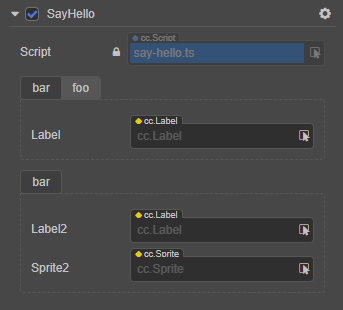
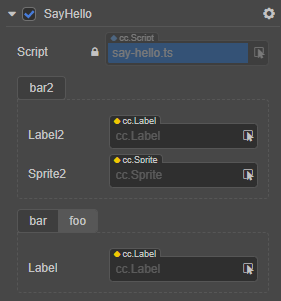
完善物理相关

diff --git a/en/editor/publish/publish-bytedance-mini-game.md b/en/editor/publish/publish-bytedance-mini-game.md
@@ -39,16 +39,13 @@ The game submission, review and release process of a mini-game needs to comply w
 ### Build Options
 
 | Options | Description | Field name (for publishing with command line) |
-| :-- | :-- | :--
+| :-- | :-- | :-- |
 | **Start Scene Asset Bundle** | If set, the start scene and its related dependent resources are built into the built-in Asset Bundle — [start-scene](../../asset/bundle.md#%E5%86%85%E7%BD%AE-asset-bundle) to speed up the resource loading of the start scene. | `startSceneAssetBundle` |
 | **Orientation** | Device orientation, it will be written to `game.json` file. | `orientation` |
 | **AppID** | The appid of the ByteDance Mini Games, it will be written to `project.config.json` file. | `appid` |
 | **Remote server address** | This option is used to fill in the address of the remote server where the resources are stored. Developers need to manually upload the `remote` folder from the release package directory to the filled resource server after build. | `remoteServerAddress` |
 | **Open data context root** | For access to Open Data Context, please refer to the [Open Data Context](./build-open-data-context.md) documentation for details. | `buildOpenDataContextTemplate` |
-| **physX.notPackPhysXLibs**| When selected, the built-in PhysX library files will not be packaged, which will help reduce the package size, but will sacrifice the support of some platforms, such as IOS TikTok apps, and only takes effect when **Project -> Project Settings -> Feature Crop -> Physics System** in the main menu is set to **PhysX**. | `physX.notPackPhysXLibs` |
-| **physX.multiThread**| If checked, multi-threaded mode is enabled, and only takes effect when using **PhysX** physics. | `physX.multiThread` |
-| **physX.subThreadCount** | The number of child threads when multi-threaded mode is enabled, and only takes effect when using **PhysX** physics. | `physX.subThreadCount` |
-| **physX.epsilon** | Tolerance of errors, only takes effect when using **PhysX** physics. If this option is enabled, the precision will be lower when using multi-threaded mode than single-threaded. | `physX.epsilon` |
+| **physX**| This option is used to configure native physics related, please see the **Native Physics** section below for more details. | - |
 
 ## Native Physics
 
@@ -62,12 +59,12 @@ The prerequisite for using native physics is to set **Physics System** to **Phys
 
 ![PhysX options](./publish-bytedance-mini-game/physx-options.png)
 
-For specific option descriptions, please refer to the **Build Options** section above.
-
-> **Note**:
-> 1. Currently, the native physics of the ByteDance platform only supports the Android version of TikTok, and the version must be greater or equal to v16.3.
-> 2. The ByteDance DevTools does not support running native physics, only previewing and debugging on a real devices.
-> 3.  In the v3.3 version, when `notPackPhysXLibs` is not selected, Creator support PhysX to running on the ByteDance full application platform, including ByteDance DevTools.
+| Options | Description | Field name (for publishing with command line) |
+| :-- | :-- | :-- |
+| **physX.notPackPhysXLibs**| If checked, the built-in PhysX library files will not be packaged when building, which helps to reduce the package size, but does not support PhysX running on some application platforms of ByteDance, such as TikTok (iOS version) and DevTools. If unchecked, Creator supports PhysX running on the full application platform of ByteDance. | `physX.notPackPhysXLibs` |
+| **physX.multiThread**| If checked, multi-threaded mode is enabled. | `physX.multiThread` |
+| **physX.subThreadCount** | The number of child threads when multi-threaded mode is enabled. | `physX.subThreadCount` |
+| **physX.epsilon** | Tolerance of errors. If this option is enabled, the precision will be lower when using multi-threaded mode than single-threaded. | `physX.epsilon` |
 
 ## Subpackage Loading
 

diff --git a/zh/editor/publish/publish-bytedance-mini-game.md b/zh/editor/publish/publish-bytedance-mini-game.md
@@ -38,14 +38,11 @@
 | 构建选项 | 说明 | 字段名（用于命令行发布） |
 | :---- | :-- | :-- |
 | 初始场景分包 | 勾选后，首场景及其相关的依赖资源会被构建到发布包目录 `assets` 下的内置 Asset Bundle — [start-scene](../../asset/bundle.md#%E5%86%85%E7%BD%AE-asset-bundle) 中，提高初始场景的资源加载速度。 | `startSceneAssetBundle` |
-| 设备方向 | 可选值包括 **Portrait** 和 **Landscape**。构建时会写入到发布包目录下的 `game.json` 文件中 | `orientation` |
+| 设备方向 | 可选值包括 **Portrait** 和 **Landscape**。构建时会写入到发布包目录下的 `game.json` 文件中。 | `orientation` |
 | AppID | 必填项，字节跳动小游戏的 AppID，构建时会写入到发布包目录下的 `project.config.json` 文件中。 | `appid` |
 | 资源服务器地址 | 用于填写资源存放在远程服务器上的地址。开发者需要在构建后手动将发布包目录下的 `remote` 文件夹上传到所填写的资源服务器地址上。详情请参考 [上传资源到远程服务器](../../asset/cache-manager.md) | `remoteServerAddress` |
-| 生成开放数据域工程模板 | 用于接入开放数据域，详情请参考 [开放数据域](./build-open-data-context.md) | `buildOpenDataContextTemplate` |
-| PhysX - notPackPhysXLibs | 是否不打包内置的 PhysX 库文件，有助于缩小包体，但会牺牲部分平台的支持，仅在使用 PhysX 物理时生效 | `physX.notPackPhysXLibs` |
-| PhysX - multiThread | 是否启用多线程模式，仅在使用 PhysX 物理时生效 | `physX.multiThread` |
-| PhysX - subThreadCount | 启用多线程模式时子线程的个数，仅在使用 PhysX 物理时生效 | `physX.subThreadCount` |
-| PhysX - epsilon | 容忍误差，仅在使用 PhysX 物理时生效。若启用该项，则使用多线程模式时的精度会比单线程的低。 | `physX.epsilon` |
+| 生成开放数据域工程模板 | 用于接入开放数据域，详情请参考 [开放数据域](./build-open-data-context.md)。 | `buildOpenDataContextTemplate` |
+| PhysX | 该项用于配置原生物理相关，具体说明请查看下文 **原生物理** 部分的内容。 | - |
 
 ## 原生物理
 
@@ -57,12 +54,12 @@
 
 ![PhysX options](./publish-bytedance-mini-game/physx-options.png)
 
-具体的选项说明请参考上文 **构建选项介绍** 部分的内容。
-
-> **注意**：
-> 1. 字节跳动平台的原生物理目前仅支持安卓版本的抖音，且版本需大于等于 **v16.3**。
-> 2. 字节跳动开发者工具目前还不支持运行原生物理，只能真机预览和调试。
-> 3. 在 v3.3 版本中，构建字节小游戏时未勾选 `notPackPhysXLibs` 时能够支持 **PhysX** 运行在字节跳动的全应用平台。
+| 构建选项 | 说明 | 字段名（用于命令行发布） |
+| :---- | :-- | :-- |
+| PhysX - notPackPhysXLibs | 若勾选该项，则构建时不会打包内置的 PhysX 库文件，有助于减小包体，但 PhysX 便无法在部分字节跳动的应用平台运行，例如抖音（iOS 版本）及开发者工具。<br>若不勾选该项，则 Creator 支持 PhysX 运行在字节跳动的全应用平台。 | `physX.notPackPhysXLibs` |
+| PhysX - multiThread | 是否启用多线程模式。 | `physX.multiThread` |
+| PhysX - subThreadCount | 启用多线程模式时子线程的个数。 | `physX.subThreadCount` |
+| PhysX - epsilon | 容忍误差。若启用该项，则使用多线程模式时的精度会比单线程的低。 | `physX.epsilon` |
 
 ## 分包加载
 

diff --git a/en/physics/physics-ccd.md b/en/physics/physics-ccd.md
@@ -1,28 +1,33 @@
 # Continuous Collision Detection
 
-在 3.3 版本之后， Cocos Creator 为用户提供了一套基础的连续碰撞检测（简称为 CCD）的功能支持，可以用来支持类如高速运动的子弹，也可以用来改善穿透现象。
+**连续碰撞检测**（简称 **CCD**）是一种用于避免高速运动的物体在离散运动时出现穿透现象而导致碰撞数据不精确的技术，可用于实现类似高速运动的子弹与物体发生碰撞时，不会直接穿透物体。
 
-## CCD 简介
+## 开启 CCD
 
-连续碰撞检测是一种避免在离散时空中出现穿透现象、碰撞数据不精确的技术，而穿透现象通常发生在高速运动物体上，例如子弹类的物体。这是由于计算机模拟都是基于离散化的形式，当速度过快时，就会导致单次积分的能量过大，此时很可能就穿越了本应该碰撞的物体，如下图所示：
+CDD 默认为禁用状态，若要启用，将物体 RigidBody 组件的 `useCCD` 属性设置为 `true` 即可：
 
-![线性穿透现象](img/physics-ccd.jpg)
-
-小球在经过一次步进后，从 T0 时刻运动到了 T1 时刻，显然可以看出错过了本该在 T0.5 时刻碰撞的黑色方块，这是典型的因线性速度过快而导致的线性穿透现象。
+```ts
+const rigidBody = this.getComponent(RigidBody);
+rigidBody.useCCD = true;
+```
 
 ## 解决线性穿透问题
 
-穿透是由于物体离散的运动而导致的现象，三维物体的运动可以拆分为移动和旋转。而线性穿透问题，是指因物体离散的移动而导致的穿透现象。
+穿透是由于物体离散运动而导致的现象，三维物体的运动可以拆分为 **移动** 和 **旋转**。Creator 目前仅支持解决 **线性穿透** 问题，指的便是因物体离散的 **移动** 而导致的穿透现象。
 
-这可以通过开启刚体组件的 `useCCD` 来避免线性穿透现象，此属性用于控制是否使用该刚体的连续碰撞检测功能。
+穿透现象通常发生在高速运动的物体上，例如子弹类的物体。这是由于计算机的模拟都是基于离散化形式，当物体运动速度过快时，就会导致单次积分的能量过大，便可能导致物体穿越了本应该碰撞的另一物体，如下图所示：
+
+![physics-ccd](img/physics-ccd.jpg)
+
+可以看到小球从 T0 时刻运动到 T1 时刻，错过了本该在 T0.5 时刻碰撞的黑色方块，这便是典型的因线性速度过快而导致的线性穿透现象。
 
 ## 支持情况
 
-由于引擎的支持情况不同，以及性能等因素，部分功能支持情况如下：
+由于各物理引擎支持情况的不同，以及出于性能等因素的考虑，Creator 对 CDD 的支持情况如下：
 
-- 仅支持动力学刚体
-- 仅支持凸类形状
-- 不支持旋转穿透
-- 有限的事件支持，考虑到性能原因，CCD 产生的事件只支持 `onCollision` 开头的类型
-- Bullet 物理只支持单个形状，并且 center 需为零向量
-- Cannon 物理只支持球形状
+- 仅支持动力学刚体。
+- 仅支持凸类形状物体。
+- 不支持解决旋转穿透问题。
+- 出于性能因素的考虑，CCD 的事件仅支持以 `onCollision` 开头的类型。
+- 当物理引擎设置为 **Bullet** 时，仅支持单个形状物体（只包含一个碰撞组件），并且碰撞组件中的 `center` 属性需要设置为 0。
+- 当物理引擎设置为 **Cannon** 时，仅支持球碰撞组件。

diff --git a/zh/physics/physics-ccd.md b/zh/physics/physics-ccd.md
@@ -1,28 +1,33 @@
 # 连续碰撞检测
 
-在 3.3 版本之后， Cocos Creator 为用户提供了一套基础的连续碰撞检测（简称为 CCD）的功能支持，可以用来支持类如高速运动的子弹，也可以用来改善穿透现象。
+**连续碰撞检测**（简称 **CCD**）是一种用于避免高速运动的物体在离散运动时出现穿透现象而导致碰撞数据不精确的技术，可用于实现类似高速运动的子弹与物体发生碰撞时，不会直接穿透物体。
 
-## CCD 简介
+## 开启 CCD
 
-连续碰撞检测是一种避免在离散时空中出现穿透现象、碰撞数据不精确的技术，而穿透现象通常发生在高速运动物体上，例如子弹类的物体。这是由于计算机模拟都是基于离散化的形式，当速度过快时，就会导致单次积分的能量过大，此时很可能就穿越了本应该碰撞的物体，如下图所示：
+CDD 默认为禁用状态，若要启用，将物体 RigidBody 组件的 `useCCD` 属性设置为 `true` 即可：
 
-![线性穿透现象](img/physics-ccd.jpg)
-
-小球在经过一次步进后，从 T0 时刻运动到了 T1 时刻，显然可以看出错过了本该在 T0.5 时刻碰撞的黑色方块，这是典型的因线性速度过快而导致的线性穿透现象。
+```ts
+const rigidBody = this.getComponent(RigidBody);
+rigidBody.useCCD = true;
+```
 
 ## 解决线性穿透问题
 
-穿透是由于物体离散的运动而导致的现象，三维物体的运动可以拆分为移动和旋转。而线性穿透问题，是指因物体离散的移动而导致的穿透现象。
+穿透是由于物体离散运动而导致的现象，三维物体的运动可以拆分为 **移动** 和 **旋转**。Creator 目前仅支持解决 **线性穿透** 问题，指的便是因物体离散的 **移动** 而导致的穿透现象。
 
-这可以通过开启刚体组件的 `useCCD` 来避免线性穿透现象，此属性用于控制是否使用该刚体的连续碰撞检测功能。
+穿透现象通常发生在高速运动的物体上，例如子弹类的物体。这是由于计算机的模拟都是基于离散化形式，当物体运动速度过快时，就会导致单次积分的能量过大，便可能导致物体穿越了本应该碰撞的另一物体，如下图所示：
+
+![physics-ccd](img/physics-ccd.jpg)
+
+可以看到小球从 T0 时刻运动到 T1 时刻，错过了本该在 T0.5 时刻碰撞的黑色方块，这便是典型的因线性速度过快而导致的线性穿透现象。
 
 ## 支持情况
 
-由于引擎的支持情况不同，以及性能等因素，部分功能支持情况如下：
+由于各物理引擎支持情况的不同，以及出于性能等因素的考虑，Creator 对 CDD 的支持情况如下：
 
-- 仅支持动力学刚体
-- 仅支持凸类形状
-- 不支持旋转穿透
-- 有限的事件支持，考虑到性能原因，CCD 产生的事件只支持 `onCollision` 开头的类型
-- Bullet 物理只支持单个形状，并且 center 需为零向量
-- Cannon 物理只支持球形状
+- 仅支持动力学刚体。
+- 仅支持凸类形状物体。
+- 不支持解决旋转穿透问题。
+- 出于性能因素的考虑，CCD 的事件仅支持以 `onCollision` 开头的类型。
+- 当物理引擎设置为 **Bullet** 时，仅支持单个形状物体（只包含一个碰撞组件），并且碰撞组件中的 `center` 属性需要设置为 0。
+- 当物理引擎设置为 **Cannon** 时，仅支持球碰撞组件。

diff --git a/en/scripting/ccclass.md b/en/scripting/ccclass.md
@@ -399,7 +399,7 @@ If there are many properties or mixed properties defined in the script, the prop
 | :--- | :--- |
 | `id`           | Group ID, `string` type, is a unique identifier for the property group, and defaults to `default`. |
 | `name`         | The name to classify the properties in the group, `string` type. |
-| `displayOrder` | Sort the groups, `number` type. The smaller the number, the higher the sorting. The default is `Infinity`, which means the group is sorted last. |
+| `displayOrder` | Sort the groups, `number` type. The smaller the number, the higher the sorting. The default is `Infinity`, which means the group is sorted last.<br>If there are multiple groups without `displayOrder` set, they will be sorted in the order declared in the script. |
 | `style`        | Grouping styles, currently only **tab** styles are supported. |
 
 Example script is as follows:
@@ -411,7 +411,7 @@ const { ccclass, property } = _decorator;
 @ccclass('SayHello')
 export class SayHello extends Component {
 
-    // Subgroup 1
+    // Group 1
     // The property category named "bar" within the group, which contains a Label property named "label".
     @property({ group: { name: 'bar' }, type: Label }) 
     label: Label = null!; 
@@ -419,11 +419,11 @@ export class SayHello extends Component {
     @property({ group: { name: 'foo' }, type: Sprite }) 
     sprite: Sprite = null!;
 
-    // Subgroup 2
-    // The property category named "bar" within the group, which contains a Label property named "label2" and a Sprite property named "sprite2".
-    @property({ group: { name: 'bar', id: '2' }, type: Label }) 
+    // Group 2
+    // The property category named "bar2" within the group, which contains a Label property named "label2" and a Sprite property named "sprite2".
+    @property({ group: { name: 'bar2', id: '2', displayOrder: 1 }, type: Label }) 
     label2: Label = null!; 
-    @property({ group: { name: 'bar', id: '2' }, type: Sprite }) 
+    @property({ group: { name: 'bar2', id: '2' }, type: Sprite }) 
     sprite2: Sprite = null!;
 
 }
@@ -432,6 +432,22 @@ export class SayHello extends Component {
 Mounting the script to the node displays the following image in the **Inspector** panel:
 
 ![decorator-group](decorator-group.png)
+
+Because group 1 does not specify `displayOrder` and group 2 specifies `displayOrder` as `1`, group 2 will be ranked ahead of group 1.
+
+Sorting the properties within a group can also be done via `displayOrder`. Taking group 2 as an example, it is currently sorted in the order defined in the script, with label2 in front of sprite2. Let's adjust it to:
+
+```ts
+// Group 2
+@property({ group: { name: 'bar2', id: '2', displayOrder: 1 }, displayOrder: 2, type: Label }) 
+label2: Label = null!; 
+@property({ group: { name: 'bar2', id: '2' }, displayOrder: 1, type: Sprite }) 
+sprite2: Sprite = null!;
+```
+
+Back to the editor, the sprite2 is now in front of label2 in the **Inspector** panel:
+
+![decorator-group](decorator-group2.png)
 
 For additional information about the properties, please refer to the [Properties](./reference/attributes.md) documentation.
 

diff --git a/zh/scripting/decorator.md b/zh/scripting/decorator.md
@@ -221,7 +221,7 @@ id = "";
 | :--- | :--- |
 | `id`           | 分组 ID，`string` 类型，是属性分组组号的唯一标识，默认为 `default`。 |
 | `name`         | 组内属性分类的名称，`string` 类型。 |
-| `displayOrder` | 对分组进行排序，`number` 类型。数字越小，排序越靠前，默认为 `Infinity`，表示排在最后面。 |
+| `displayOrder` | 对分组进行排序，`number` 类型，数字越小，排序越靠前。默认为 `Infinity`，表示排在最后面。<br>若存在多个未设置的分组，则以在脚本中声明的先后顺序进行排序 |
 | `style`        | 分组样式，目前只支持 **tab** 样式。 |
 
 示例脚本如下：
@@ -242,10 +242,10 @@ export class SayHello extends Component {
     sprite: Sprite = null!;
 
     // 分组二
-    // 组内名为 “bar” 的属性分类，其中包含名为 label2 的 Label 属性和名为 sprite2 的 Sprite 属性
-    @property({ group: { name: 'bar', id: '2' }, type: Label }) 
+    // 组内名为 “bar2” 的属性分类，其中包含名为 label2 的 Label 属性和名为 sprite2 的 Sprite 属性，并且指定排序为 1。
+    @property({ group: { name: 'bar2', id: '2', displayOrder: 1 }, type: Label }) 
     label2: Label = null!; 
-    @property({ group: { name: 'bar', id: '2' }, type: Sprite }) 
+    @property({ group: { name: 'bar2', id: '2' }, type: Sprite }) 
     sprite2: Sprite = null!;
 
 }
@@ -254,5 +254,22 @@ export class SayHello extends Component {
 将该脚本挂载到节点上，则在 **属性检查器** 中显示为：
 
 ![decorator-group](decorator-group.png)
+
+因为分组一未指定 `displayOrder`，分组二指定了 `displayOrder` 为 1，所以分组二会排在分组一的前面。
+
+若需要对分组内的属性排序，也可以使用 `displayOrder`。以分组二为例，目前是按照在脚本中定义的先后顺序进行排序，label2 在 sprite2 的前面。我们将其调整为：
+
+```ts
+// 分组二
+// 组内名为 “bar” 的属性分类，其中包含名为 label2 的 Label 属性和名为 sprite2 的 Sprite 属性，并且指定排序为 1。
+@property({ group: { name: 'bar2', id: '2', displayOrder: 1 }, displayOrder: 2, type: Label }) 
+label2: Label = null!; 
+@property({ group: { name: 'bar2', id: '2' }, displayOrder: 1, type: Sprite }) 
+sprite2: Sprite = null!;
+```
+
+回到编辑器，在 **属性检查器** 中可以看到 sprite2 已经排在 label2 的前面了：
+
+![decorator-group](decorator-group2.png)
 
 更多参数内容请参考文档 [属性参数](./reference/attributes.md)。

diff --git a/en/SUMMARY.md b/en/SUMMARY.md
@@ -133,12 +133,14 @@
     - [Physics System](physics/physics-system.md)
     - [Physics Component](physics/physics-component.md)
     - [Using Physics](physics/physics-use.md)
-    - [Physics Collider](physics/physics-collider.md)
-    - [Materials](physics/physics-material.md)
-    - [Rigid Body](physics/physics-rigidbody.md)
-    - [Physics Events](physics/physics-event.md)
-    - [Group Masks](physics/physics-group-mask.md)
-    - [Raycast](physics/physics-raycast.md)
+        - [Physics Collider](physics/physics-collider.md)
+        - [Physics Configs](editor/project/physics-configs.md)
+        - [Materials](physics/physics-material.md)
+        - [RigidBody Component](physics/physics-rigidbody.md)
+        - [Physics Events](physics/physics-event.md)
+        - [Groups and Masks](physics/physics-group-mask.md)
+        - [RayCast Detection](physics/physics-raycast.md)
+        - [Continuous Collision](physics/physics-ccd.md)
 
 - [2D Physics](physics-2d/physics-2d.md)
     - [2D Physics System](physics-2d/physics-2d-system.md)

diff --git a/en/editor/publish/build-options.md b/en/editor/publish/build-options.md
@@ -80,7 +80,7 @@ This option is optional and used to fill in the address of the remote server whe
 
 If this option is not checked, release mode will be built and the editor will compress and obfuscate the `uuid` of the asset, the engine script and project script generated by the build, and subpackage the `json` of the same type asset, reducing the times of asset loading.
 
-If this option is checked, debug mode will be built, allowing you to debug the project and easily locate problems.
+If this option is checked, debug mode will be built, allowing you to debug the project and easily locate problems. When publishing to the Android platform, the app name will have the `-debug` suffix.
 
 ### Source Maps
 

diff --git a/zh/editor/publish/build-options.md b/zh/editor/publish/build-options.md
@@ -70,7 +70,7 @@ url = assetManager.utils.getUrlWithUuid(uuid);
 
 若不勾选该项，则处于发布（release）模式，会对资源的 uuid、构建出来的引擎脚本和项目脚本进行压缩和混淆，并且对同类资源的 json 做分包处理，减少资源加载的次数。
 
-若勾选该项，则处于调试模式，同时也可以配合勾选 Source Maps 选项，对项目进行调试，更方便定位问题。
+若勾选该项，则处于调试模式，同时也可以配合勾选 Source Maps 选项，对项目进行调试，更方便定位问题。当发布到 Android 平台时，应用名称也会带有 `-debug` 后缀。
 
 ### Source Maps
 

diff --git a/zh/SUMMARY.md b/zh/SUMMARY.md
@@ -139,6 +139,7 @@
         - [物理事件](physics/physics-event.md)
         - [分组和掩码](physics/physics-group-mask.md)
         - [射线检测](physics/physics-raycast.md)
+        - [连续碰撞检测](physics/physics-ccd.md)
 - [2D 物理](physics-2d/physics-2d.md)
     - [2D 物理系统](physics-2d/physics-2d-system.md)
     - [2D 刚体组件](physics-2d/physics-2d-rigid-body.md)
